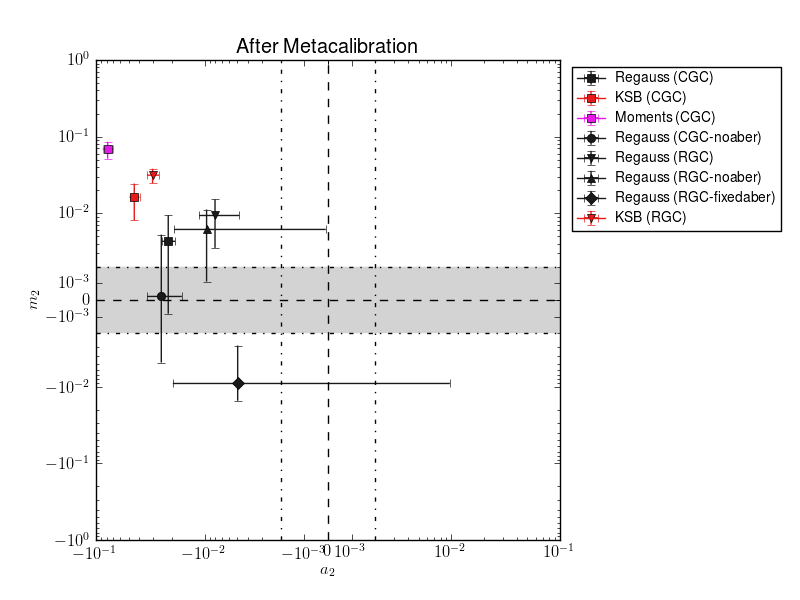
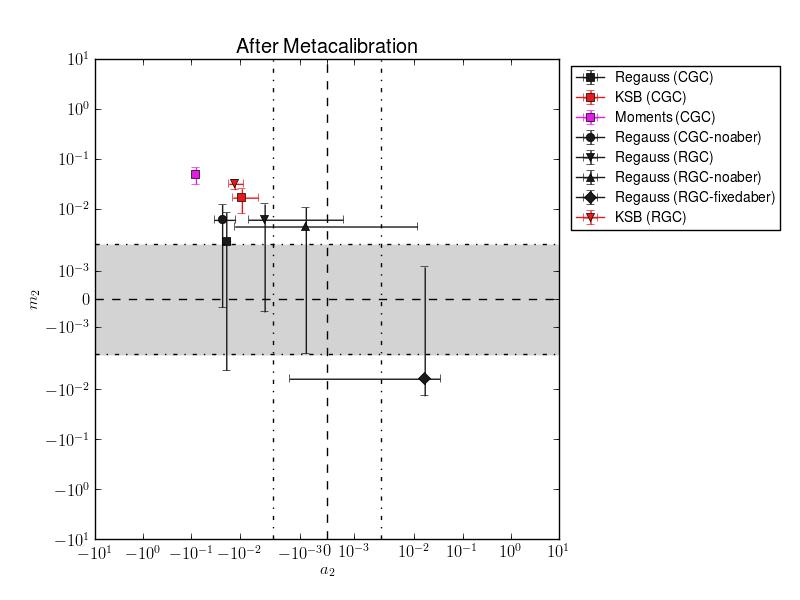
Updated ksb factor, added code to do inference without assuming linear R

Changed region(s): [[0.0625, 0.09, 1.0, 0.93], [0.1875, 0.27, 0.25, 0.3], [0.1562, 0.3, 0.1875, 0.36]]

diff --git a/Scripts/shear_ensemble_est.py b/Scripts/shear_ensemble_est.py
@@ -9,7 +9,7 @@ from astropy.io import fits
 import re
 import galsim
 import matplotlib as mpl
-mpl.use('Agg')
+#mpl.use('Agg')
 
     
 def getAllCatalogs( path = '../Great3/', mc_type = None, sn_cut = None ):
@@ -99,12 +99,61 @@ def getAllCatalogs( path = '../Great3/', mc_type = None, sn_cut = None ):
             truthCat = truthCat[use]
 
         catalogs.append(this_catalog)
-    #cat = np.hstack(catalogs)
-    #truth = np.hstack(alltruth)
-    #stop
     return catalogs, truthFile
 
 
+def reconstructMetacalMeas(g=None, R=None, a = None, c=None, psf_e=None, delta_g = 0.01 ):
+    esum = 2*(c + g)
+    ediff = 2*delta_g * R
+    ep = (esum + ediff)/2. - a * psf_e
+    em = (esum - ediff)/2. - a * psf_e
+    return ep,em
+
+    
+
+def getHistogramDerivative(catalogs=None, bin_edges=None, delta_g = 0.01):
+    e1_p_list = []
+    e1_m_list = []
+    e1_0_list = []
+    
+    e2_p_list = []
+    e2_m_list = []
+    e2_0_list = []
+        
+    for catalog in catalogs:
+        e1p, e1m = reconstructMetacalMeas(g=catalog['g1'], R=catalog['R1'],
+                                          a = catalog['a1'], c=catalog['c1'],
+                                          psf_e=catalog['psf_e1'], delta_g = delta_g )
+        e2p, e2m = reconstructMetacalMeas(g=catalog['g2'], R=catalog['R2'],
+                                          a = catalog['a2'], c=catalog['c2'],
+                                          psf_e=catalog['psf_e2'], delta_g = delta_g )
+        e10 = catalog['g1'] - catalog['c1'] - catalog['a1']*catalog['psf_e1']
+        e20 = catalog['g2'] - catalog['c2'] - catalog['a2']*catalog['psf_e2']
+        e1_p_list.append(np.hstack((e1p, -e1m)))
+        e1_m_list.append(np.hstack((e1m, -e1p)))
+        e1_0_list.append(np.hstack((e10, -e10)))
+
+        e2_p_list.append(np.hstack((e2p, -e2m)))
+        e2_m_list.append(np.hstack((e2m, -e2p)))
+        e2_0_list.append(np.hstack((e20, -e20)))
+                
+    e1_p = np.hstack(e1_p_list)
+    e1_m = np.hstack(e1_m_list)
+    e1_0 = np.hstack(e1_0_list)
+    e2_p = np.hstack(e2_p_list)
+    e2_m = np.hstack(e2_m_list)
+    e2_0 = np.hstack(e2_0_list)
+    
+    h1_p, _ = np.histogram(e1_p, bins= bin_edges) 
+    h1_m, _ = np.histogram(e1_m, bins= bin_edges) 
+    h2_p, _ = np.histogram(e2_p, bins= bin_edges)
+    h2_m, _ = np.histogram(e2_m, bins= bin_edges)
+
+    dh1_dg1 = (h1_p - h1_m)/(2*delta_g)*1./len(e1_p)
+    dh2_dg2 = (h2_p - h2_m)/(2*delta_g)*1./len(e2_p)
+
+    return dh1_dg1, dh2_dg2
+    
 
 def buildPrior(catalogs=None, nbins=100, bins = None, doplot = False, mc_type = None):
     # Get a big master list of all the ellipticities in all fields.
@@ -144,25 +193,23 @@ def buildPrior(catalogs=None, nbins=100, bins = None, doplot = False, mc_type = 
     e1_prior_hist, _ = np.histogram(e1prior, bins = bin_edges)
     e2_prior_hist, _ = np.histogram(e2prior, bins = bin_edges)
 
-    e1_prior_hist = e1_prior_hist * 1./e1prior.size
-    e2_prior_hist = e2_prior_hist * 1./e2prior.size
+    e1_prior_hist = e1_prior_hist*1./len(e1prior)
+    e2_prior_hist = e2_prior_hist*1./len(e2prior)
     
+    
+    dg = 0.01
+
     # Compute derivatives.
     # Note from Rachel: changed code inside of the np.hstack() below.  I think it should be e1+r1*dg
     # and -e1+r1*dg, because regardless of whether e1 is >0 or <0, it should still be shifted to a
     # positive direction if dg>0.  Previous code had -(e1+r1*dg) which does the opposite, i.e.,
     # shifts e1 negative if dg is positive.
-    dg = 0.01
-    e1_prior_hist_mod_p, _  = np.histogram(
-        np.hstack( (e1_corr+r1*dg, -e1_corr+(r1*dg) ) ),  bins=bin_edges)
+    e1_prior_hist_mod_p, _  = np.histogram( np.hstack( (e1_corr+r1*dg, -e1_corr+(r1*dg) ) ),  bins=bin_edges)
     e1_prior_hist_mod_p = e1_prior_hist_mod_p * 1./e1prior.size
 
-    e1_prior_hist_mod_m, _  = np.histogram(
-        np.hstack( (e1_corr-r1*dg, -e1_corr-(r1*dg) ) ),  bins=bin_edges)
+    e1_prior_hist_mod_m, _  = np.histogram( np.hstack( (e1_corr-r1*dg, -e1_corr-(r1*dg) ) ),  bins=bin_edges)
     e1_prior_hist_mod_m = e1_prior_hist_mod_m * 1./e1prior.size
-    #e1_prior_hist_mod = ( e1_prior_hist_mod_p - e1_prior_hist_mod_m ) /2.
-    
-    
+
     e2_prior_hist_mod_p, _  = np.histogram(
         np.hstack( (e2_corr+r2*dg, -e2_corr+(r2*dg) ) ),  bins=bin_edges)
     e2_prior_hist_mod_p = e2_prior_hist_mod_p * 1./e2prior.size
@@ -170,21 +217,20 @@ def buildPrior(catalogs=None, nbins=100, bins = None, doplot = False, mc_type = 
     e2_prior_hist_mod_m, _  = np.histogram(
         np.hstack( (e2_corr - r2*dg, -e2_corr - (r2*dg) ) ),  bins=bin_edges)
     e2_prior_hist_mod_m = e2_prior_hist_mod_m * 1./e2prior.size
-    #e2_prior_hist_mod = (e2_prior_hist_mod_p - e2_prior_hist_mod_m)/2.
-    
-    #de1_dg = ( e1_prior_hist_mod_p - e1_prior_hist) / (dg)
-    #de2_dg = ( e2_prior_hist_mod_p - e2_prior_hist) / (dg)
     de1_dg = ( e1_prior_hist_mod_p - e1_prior_hist_mod_m) / (2*dg)
     de2_dg = ( e2_prior_hist_mod_p - e2_prior_hist_mod_m) / (2*dg)
+
+    #de1_dg_nl, de2_dg_nl =  getHistogramDerivative(catalogs= catalogs, bin_edges=bin_edges, delta_g = dg)
+
     de1_dg[-1] = 0.
     de1_dg[0] = 0.
     de2_dg[-1] = 0.
     de2_dg[0] = 0.
-
+    
     if doplot is True:
         import matplotlib.pyplot as plt
         fig,(ax1,ax2) =plt.subplots(nrows = 2, ncols = 1,figsize = (7,14))
-        ax1.hist(  e1_corr[np.abs(e1_corr) <= 4], bins=100, normed=True, log = True )
+        ax1.hist(  e1_corr, bins=np.linspace(-10,10,100), normed=True, log = True )
         for x in bin_edges: ax1.axvline(x,color='red')
         ax1.set_xlim([-10,10])
         ax1.set_xlabel('e')
@@ -217,12 +263,12 @@ def linear_estimator(data = None, null = None, deriv = None, cinv = None):
         var = 1./ (np.dot( np.dot( deriv.T, cinv) , deriv) )
         return est, var
 
-    
 def doInference(catalogs=None, nbins=None, mean = False, plotFile = None):
 
     print '  About to build prior...'
     bin_edges, e1_prior_hist, e2_prior_hist, de1_dg, de2_dg = \
         buildPrior(catalogs, nbins=nbins)
+
     print '  Done building prior, now doing rest of inference.'
     gamma1_raw = np.zeros(len(catalogs))
     gamma2_raw = np.zeros(len(catalogs))
@@ -285,12 +331,20 @@ def doInference(catalogs=None, nbins=None, mean = False, plotFile = None):
                 fig.savefig(plotFile)
         
         elif mean is True:
-            this_g1_opt =  np.average(catalog['g1'] - catalog['c1'] - catalog['a1'] * catalog['psf_e1'], weights = catalog['weight']) \
-               / np.average(catalog['R1'], weights = catalog['weight'])
-            this_g2_opt =  np.average(catalog['g2'] - catalog['c2'] - catalog['a2'] * catalog['psf_e2'], weights = catalog['weight']) \
-              / np.average(catalog['R2'], weights = catalog['weight'])
-            this_g1_var =  np.average(  ( ( catalog['g1'] - catalog['c1'] - catalog['a1'] * catalog['psf_e1']) - this_g1_opt )**2, weights = catalog['weight']) *1./ len(catalog)
-            this_g2_var =  np.average(  ( ( catalog['g2'] - catalog['c2'] - catalog['a2'] * catalog['psf_e2']) - this_g2_opt )**2, weights = catalog['weight']) *1./ len(catalog)
+            e1p, e1m =  reconstructMetacalMeas(g=catalog['g1'], R= catalog['R1'],
+                                               a = catalog['a1'], c=catalog['c1'],
+                                               psf_e=catalog['psf_e1'], delta_g = 0.01 )
+            e2p, e2m =  reconstructMetacalMeas(g=catalog['g2'], R= catalog['R2'],
+                                               a = catalog['a2'], c=catalog['c2'],
+                                               psf_e=catalog['psf_e2'], delta_g = 0.01 )
+            
+            coeff1 = np.polyfit([-0.01, 0.0, 0.01], [np.mean(e1m),np.mean(catalog['g1']),np.mean(e1p)], 1)
+            coeff2 = np.polyfit([-0.01, 0.0, 0.01], [np.mean(e1m),np.mean(catalog['g1']),np.mean(e1p)], 1)
+            this_g1_opt = (np.mean(catalog['g1']) - coeff1[1])/coeff1[0]
+            this_g2_opt = (np.mean(catalog['g2']) - coeff2[1])/coeff2[0]
+            this_g1_var = np.var(catalog['g1'])*1./catalog.size
+            this_g2_var = np.var(catalog['g1'])*1./catalog.size
+
 
                             
         gamma1_opt[i] = this_g1_opt
@@ -555,9 +609,9 @@ def no_correction_plots(catalogs= None,truthtable = None, mc= None):
         if 'regauss' in mc:
             calib1 = 2*(1 - np.var(catalog['g1'][np.abs(catalog['g1']) <= 3]))
             calib2 = 2*(1 - np.var(catalog['g2'][np.abs(catalog['g2']) <= 3]))
-        elif 'moments' in mc or 'ksb' in mc:
-            calib1 = 2.
-            calib2 = 2.
+        elif 'moments' in mc:
+            calib1 = 1.
+            calib2 = 1.
         else:
             calib1 = 1.
             calib2 = 1.
@@ -728,7 +782,7 @@ def main(argv):
     parser.add_argument("-dp", "--doplot", dest = "doplot", action="store_true")
     parser.add_argument("-a", "--do_all", dest = "do_all", action="store_true", default = False)
     parser.add_argument("-sn", "--snos_cut", dest="sn_cut",
-                        help="percentile",type= float, default = 0)
+                        help="signal-to-noise cut",type= float, default = 0)
 
     args = parser.parse_args(argv[1:])
     if args.sn_cut > 0:
@@ -766,7 +820,7 @@ def main(argv):
     else:
         final_mc_choices = ['regauss', 'ksb', 'moments','noaber-regauss','rgc-regauss',\
                          'rgc-noaber-regauss','rgc-fixedaber-regauss', 'rgc-ksb']
-        final_cuts = [10, 10, 10, 0, 10, 0, 10, 10]
+        final_cuts = [10, 10, 0, 0, 10, 0, 10, 10]
         all_coeff = []
         for mc_type, percentile_cut in zip(final_mc_choices, final_cuts):
             nbins = args.nbins

diff --git a/Scripts/great3like.py b/Scripts/great3like.py
@@ -17,8 +17,8 @@ outfile1 = 'great3_before_after'
 outfile2 = 'great3_before'
 outfile3 = 'great3_after'
 outsuff = '.png'
-a_lim = (-0.1,0.1)
-m_lim = (-1.,1.)
+a_lim = (-10.,10.)
+m_lim = (-10.,10.)
 # components: average them or ...?
 components = ['1','2','both']
 # make dicts with translation of codes to branches and methods
@@ -75,10 +75,11 @@ for component in components:
     max_m = max(m_vals+m_err_vals)
     for ind in range(n):
         mstr = method_list[ind]
-        if 'moments' not in mstr:
-            plt.errorbar([a_vals[ind]], [m_vals[ind]], xerr=[a_err_vals[ind]], yerr=[m_err_vals[ind]],
-                         marker=info_dict[mstr]['marker'], color=info_dict[mstr]['color'],
-                         label=info_dict[mstr]['method']+' ('+info_dict[mstr]['branch']+')')
+        print mstr
+        #if 'moments' not in mstr:
+        plt.errorbar([a_vals[ind]], [m_vals[ind]], xerr=[a_err_vals[ind]], yerr=[m_err_vals[ind]],
+                     marker=info_dict[mstr]['marker'], color=info_dict[mstr]['color'],
+                     label=info_dict[mstr]['method']+' ('+info_dict[mstr]['branch']+')')
             #if 'ksb' in info_dict[mstr]['method'].lower():
             #    print info_dict[mstr]['method'], m_vals[ind], a_vals[ind]
     #a_lim = (min_a, max_a)
